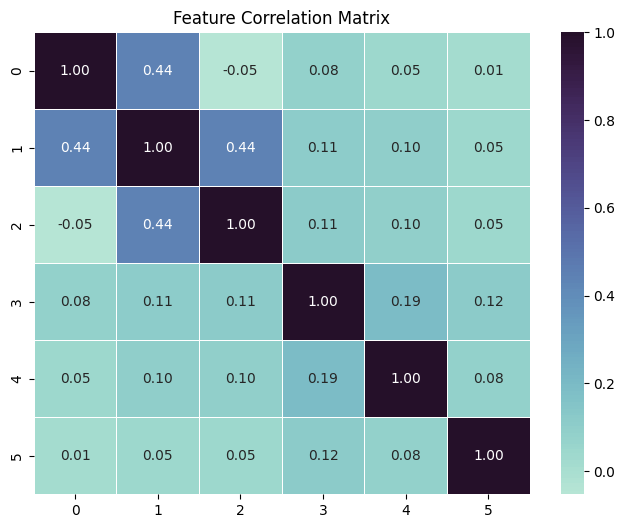
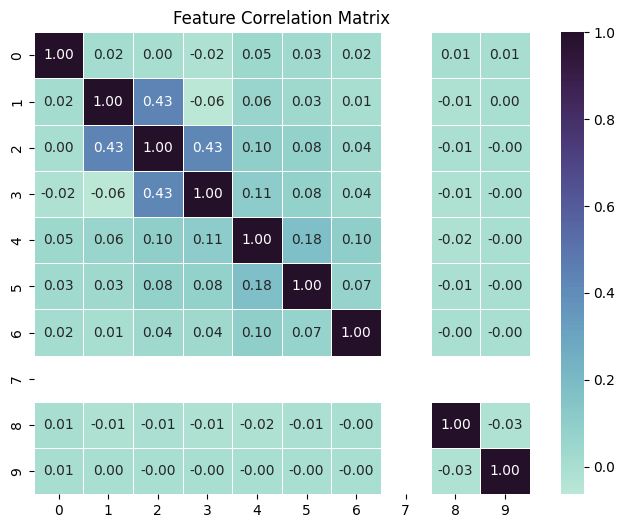
adding encoding

diff --git a/utils.py b/utils.py
@@ -23,7 +23,7 @@ def split_data(x: pl.DataFrame, y: pl.DataFrame, test_size=0.2):
 def plot_correlation(df: pl.DataFrame):
     plt.figure(figsize=(8, 6))
     sns.heatmap(
-        df.select(cs.contains('p')).corr(), 
+        df.select(cs.numeric()).corr(), 
         annot=True, 
         fmt='.2f', 
         linewidths=0.5, 
